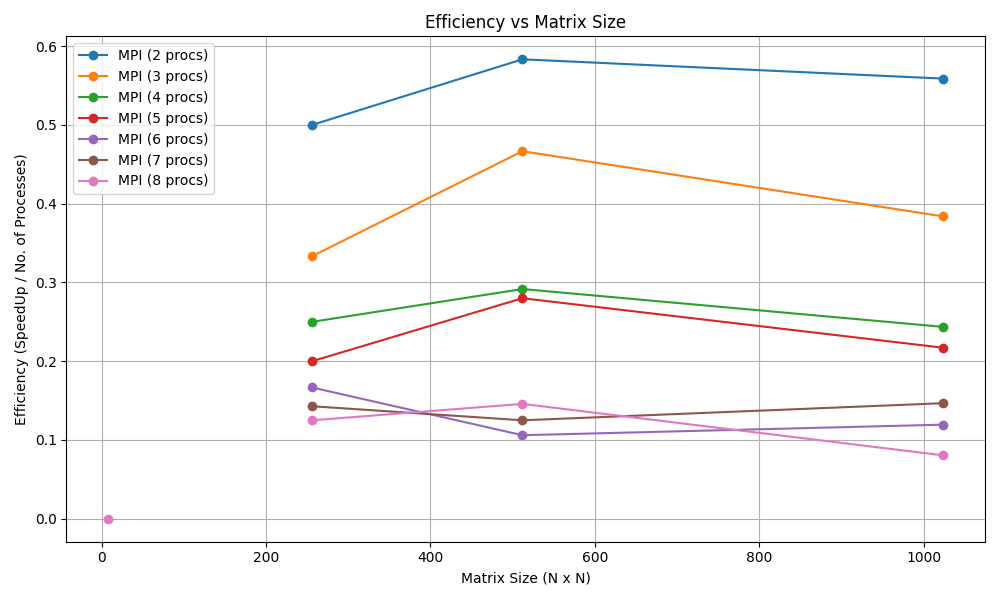
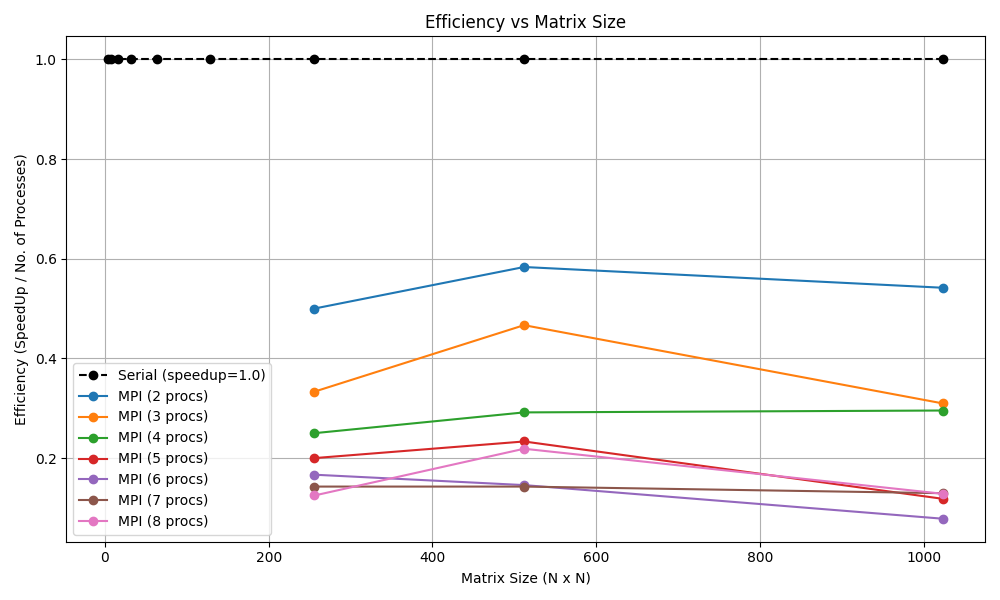
Revisions

diff --git a/plot_benchmark.py b/plot_benchmark.py
@@ -26,7 +26,7 @@ plt.close()
 # Plot 2: Speedup vs Matrix Size (for each process count and serial)
 plt.figure(figsize=(10, 6))
 # Serial speedup is always 1.0
-#plt.plot(serial['N'], [1.0]*len(serial), marker='o', linestyle='--', color='black', label='Serial (speedup=1.0)')
+plt.plot(serial['N'], [1.0]*len(serial), marker='o', linestyle='--', color='black', label='Serial (speedup=1.0)')
 for p in sorted(df[df['type'] == 'mpi']['processes'].unique()):
     mpi = df[(df['type'] == 'mpi') & (df['processes'] == p)]
     plt.plot(mpi['N'], mpi['speedup'], marker='o', label=f'MPI ({p} procs)')
@@ -43,7 +43,7 @@ plt.close()
 # Plot 3: Efficiency vs Matrix Size (for each process count and serial)
 plt.figure(figsize=(10, 6))
 # Serial speedup is always 1.0
-#plt.plot(serial['N'], [1.0]*len(serial), marker='o', linestyle='--', color='black', label='Serial (speedup=1.0)')
+plt.plot(serial['N'], [1.0]*len(serial), marker='o', linestyle='--', color='black', label='Serial (speedup=1.0)')
 for p in sorted(df[df['type'] == 'mpi']['processes'].unique()):
     mpi = df[(df['type'] == 'mpi') & (df['processes'] == p)]
     plt.plot(mpi['N'], mpi['efficiency'], marker='o', label=f'MPI ({p} procs)')
